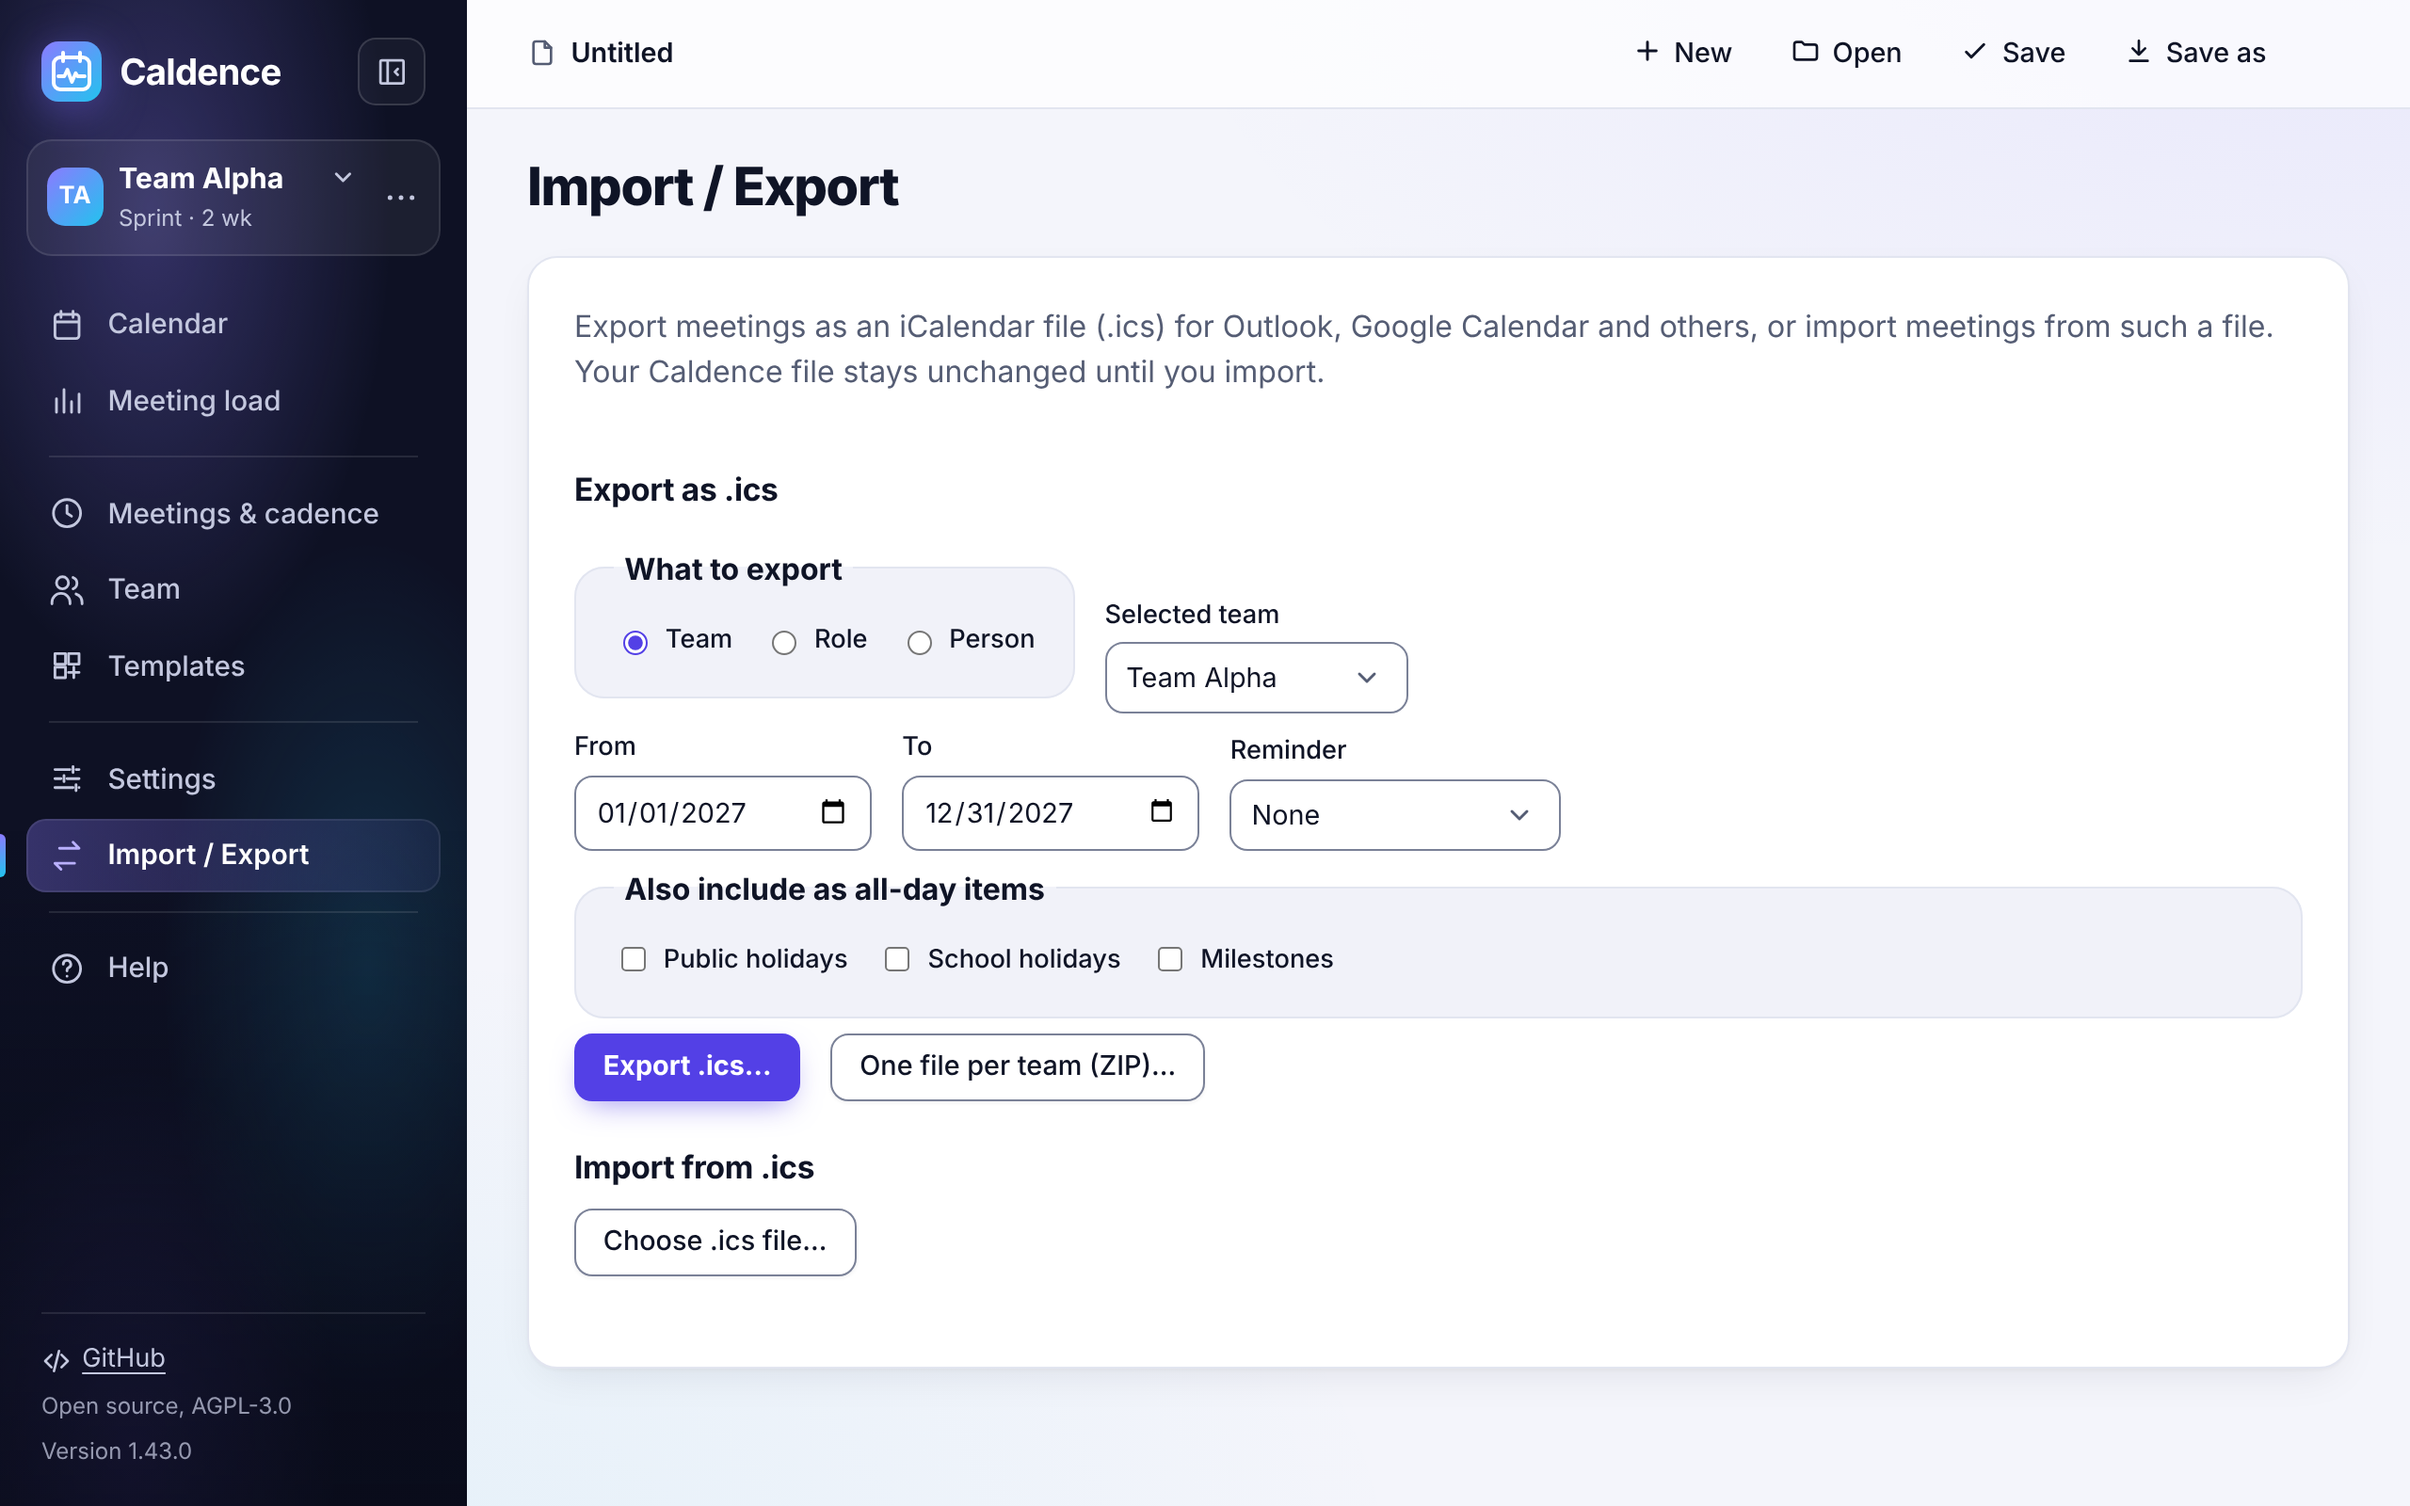
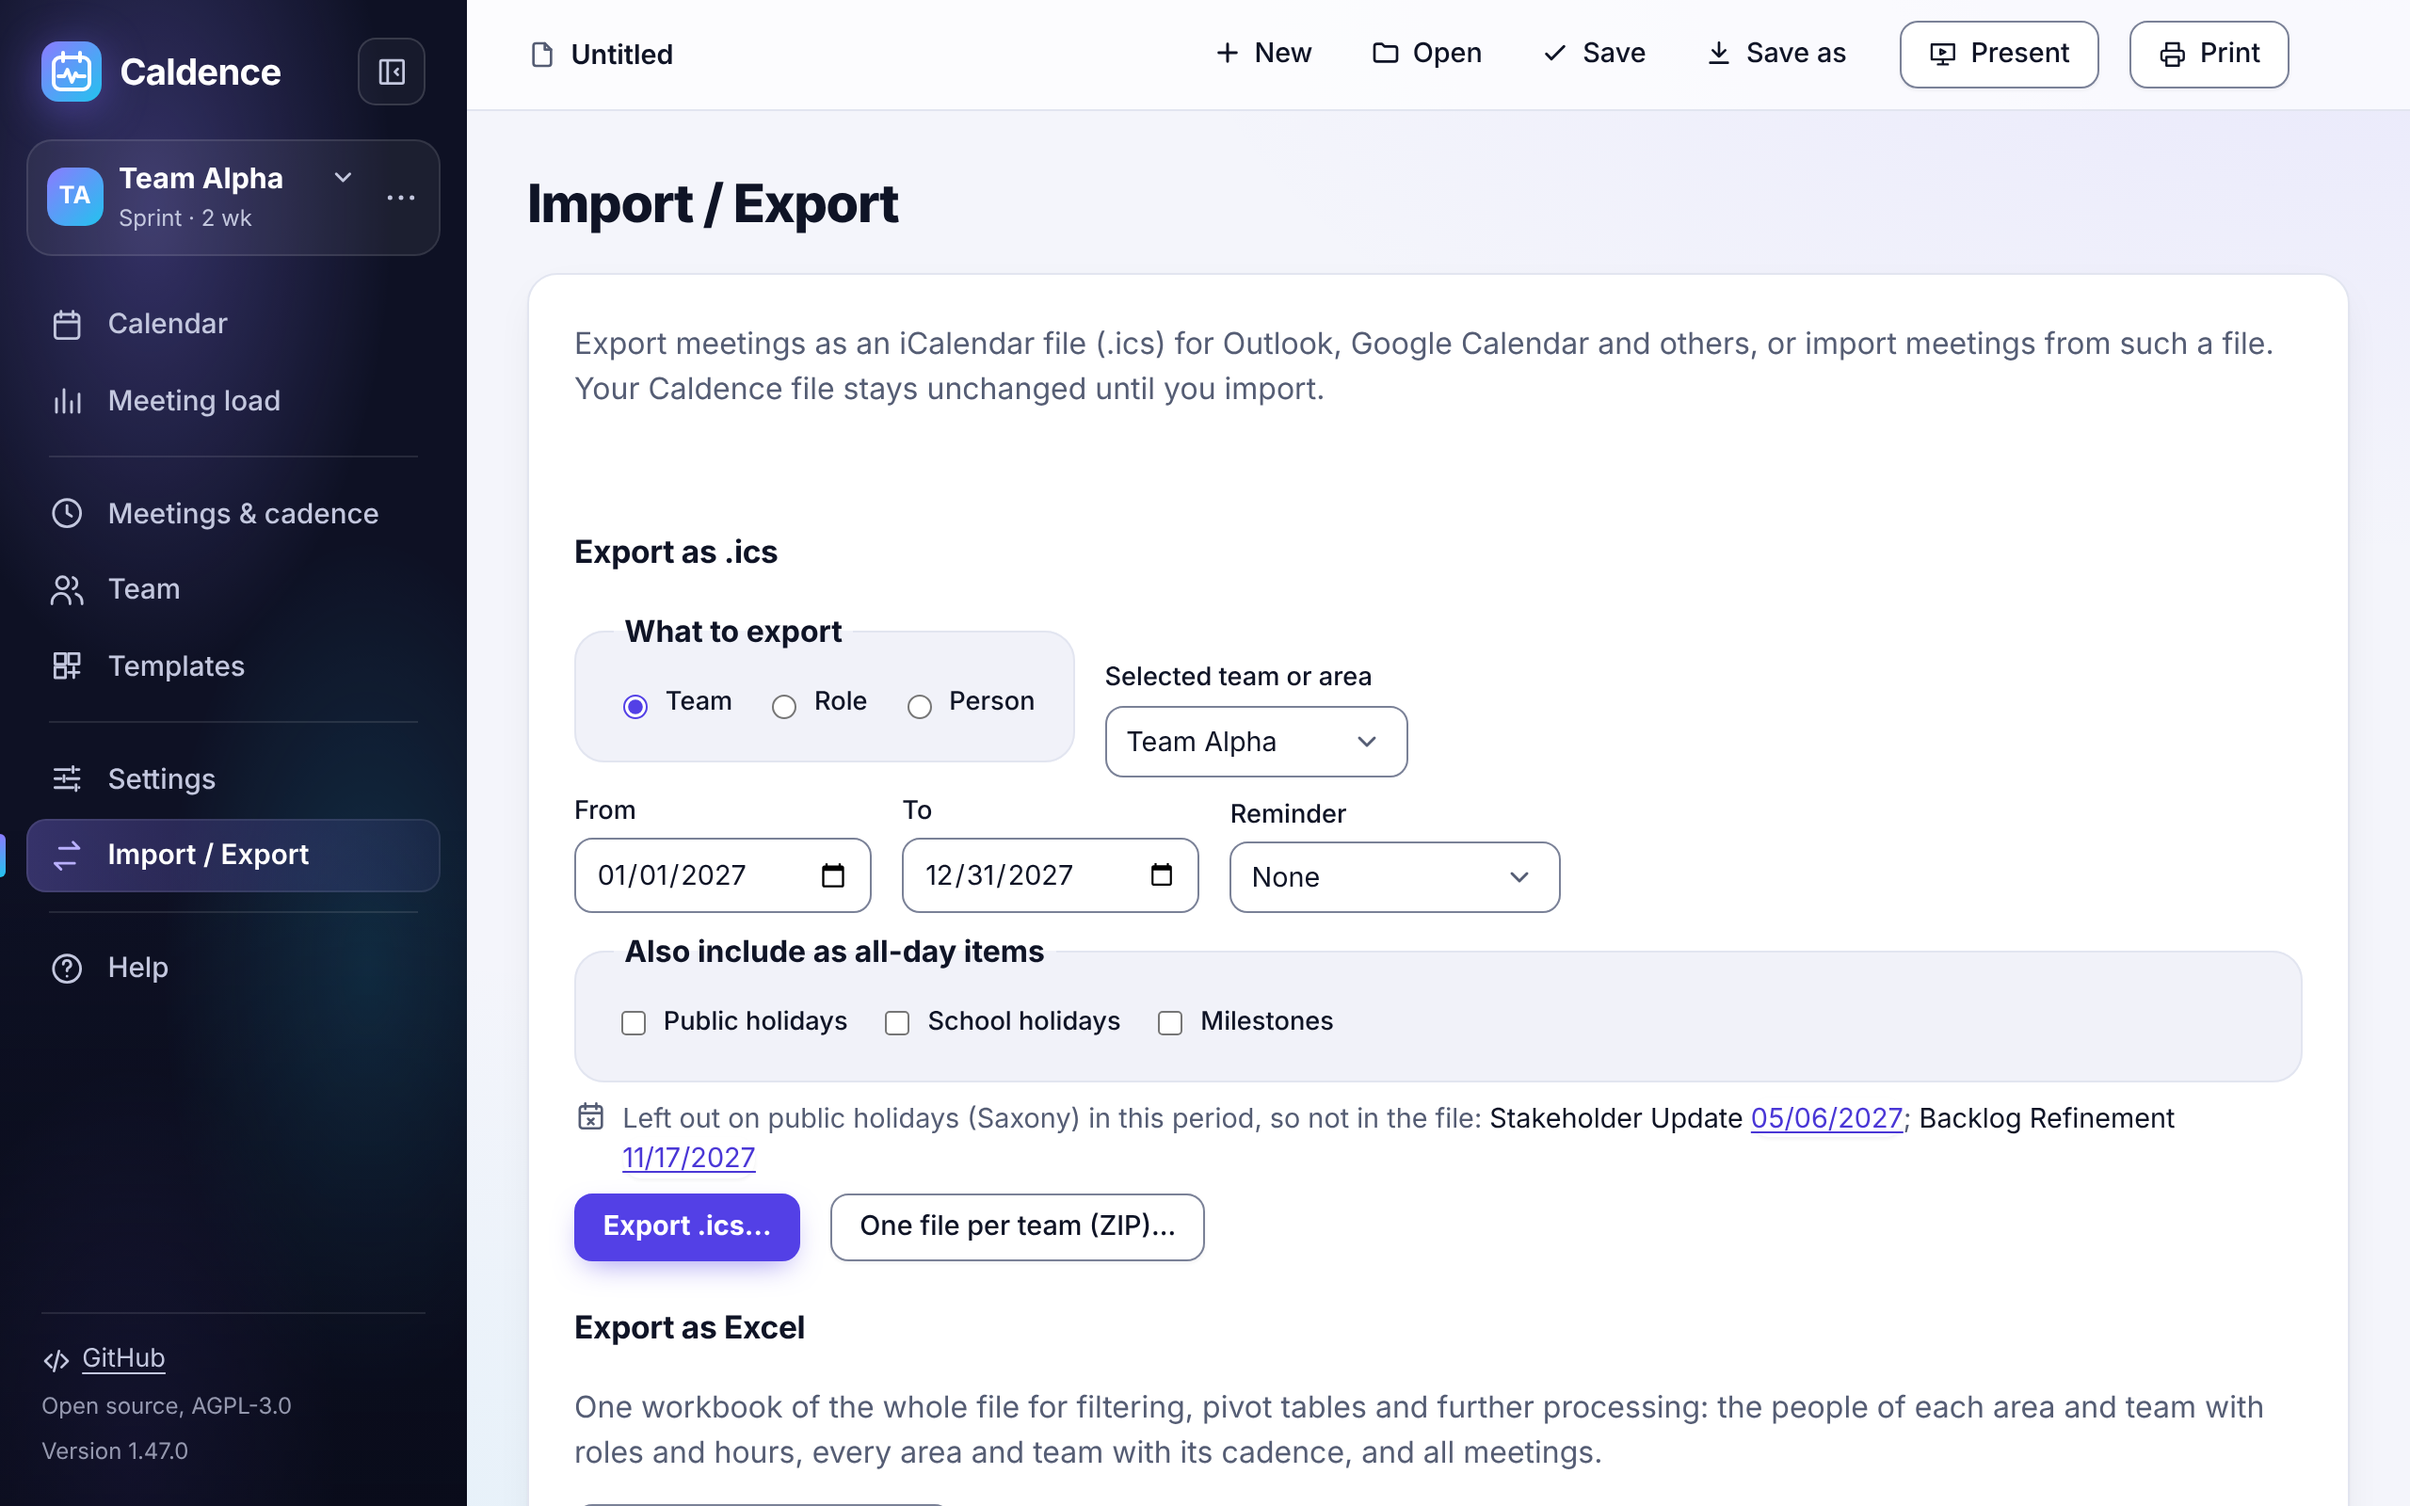
Merge same-date drops, list cadence meetings first, wizard shots (#341)
- Meetings dropped on the same dates share one entry; cadence-bound
  meetings (Review, Retrospective) come before daily or weekly series.
- The comma after a date stays with it when the line wraps.
- The region hint is true whether or not holidays are skipped.
- The date link stops its click instead of a global outside-click check.
- Help says "for example" a sprint, so it fits Kanban too.
- Wizard region PNGs, German shots re-taken, docs screenshots of
  Meetings and Import / Export regenerated; e2e for the wizard hint.

diff --git a/src/core/ics.ts b/src/core/ics.ts
@@ -249,16 +249,17 @@ function* scopedMeetings(
   }
 }
 
-/** A meeting holidays leave out of an export, with the dates it drops on (#341). */
+/** Meetings holidays leave out of an export, all on the same dates (#341). */
 export interface HolidayDrop {
-  name: string;
+  names: string[];
   dates: ISODate[];
 }
 
 /**
  * The meetings of a scope that fall on a public holiday in from..to and so are missing from its
- * .ics file, one entry per meeting name, ordered by their first such date. `index` must cover
- * from..to. Empty when the file skips no holidays.
+ * .ics file. Meetings dropped on the same dates share one entry; meetings bound to the cadence
+ * (sprint or PI days, such as Review and Retrospective) come first, then by their first date.
+ * `index` must cover from..to. Empty when the file skips no holidays.
  */
 export function holidayDrops(
   ws: Workspace,
@@ -267,18 +268,40 @@ export function holidayDrops(
   from: ISODate,
   to: ISODate,
 ): HolidayDrop[] {
-  const byName = new Map<string, Set<ISODate>>();
+  const byName = new Map<string, { dates: Set<ISODate>; cadence: boolean }>();
   for (const { event, occs } of scopedMeetings(ws, index, scope, from, to)) {
     for (const occ of occs) {
       if (!occ.skippedHoliday) continue;
-      const dates = byName.get(event.name) ?? new Set<ISODate>();
-      dates.add(occ.date);
-      byName.set(event.name, dates);
+      const entry = byName.get(event.name) ?? { dates: new Set<ISODate>(), cadence: false };
+      entry.dates.add(occ.date);
+      entry.cadence ||= event.rule.type === 'cadence-day';
+      byName.set(event.name, entry);
     }
   }
-  return [...byName]
-    .map(([name, dates]) => ({ name, dates: [...dates].sort() }))
-    .sort((a, b) => (a.dates[0]! < b.dates[0]! ? -1 : a.dates[0]! > b.dates[0]! ? 1 : 0));
+  const groups = new Map<string, { names: string[]; dates: ISODate[]; cadence: boolean }>();
+  for (const [name, { dates, cadence }] of byName) {
+    const sorted = [...dates].sort();
+    const key = sorted.join(' ');
+    const group = groups.get(key);
+    if (group) {
+      group.names.push(name);
+      group.cadence ||= cadence;
+    } else groups.set(key, { names: [name], dates: sorted, cadence });
+  }
+  const first = (g: { dates: ISODate[] }) => g.dates[0] ?? '';
+  return [...groups.values()]
+    .sort((a, b) =>
+      a.cadence !== b.cadence
+        ? a.cadence
+          ? -1
+          : 1
+        : first(a) < first(b)
+          ? -1
+          : first(a) > first(b)
+            ? 1
+            : 0,
+    )
+    .map(({ names, dates }) => ({ names, dates }));
 }
 
 /** True when the person attends at least one of the meetings a team's or area's export holds. */

diff --git a/tests/unit/ics-export.test.ts b/tests/unit/ics-export.test.ts
@@ -320,17 +320,32 @@ describe('exportIcs holidays (Review Focus 3)', () => {
     const range = { from: '2027-03-01', to: '2027-04-30' };
     const index = workspaceIndex({ ...w, settings: { ...w.settings, horizon: range } });
     const drops = holidayDrops(w, index, { teamId: 'team-alpha' }, range.from, range.to);
-    // Good Friday, Easter Monday; ordered by the first dropped date, a name only once.
+    // Good Friday, Easter Monday; ordered by the first dropped date, same dates merged.
     expect(drops).toEqual([
-      { name: 'Review', dates: ['2027-03-26'] },
-      { name: 'Planning', dates: ['2027-03-29'] },
-      { name: 'Kick-off', dates: ['2027-03-29'] },
+      { names: ['Review'], dates: ['2027-03-26'] },
+      { names: ['Planning', 'Kick-off'], dates: ['2027-03-29'] },
     ]);
     // The same dates the file leaves out.
     const lines = unfold(run(w, opts({ ...range, scope: { teamId: 'team-alpha' } })));
     expect(lines).toContain('EXDATE;TZID=Europe/Berlin:20270326T100000');
     expect(lines).toContain('EXDATE;TZID=Europe/Berlin:20270329T090000');
     expect(lines.join('\n')).not.toContain('Kick-off');
+  });
+
+  it('lists cadence-bound meetings first and merges those on the same dates', () => {
+    const w = example();
+    w.teams[0]!.cadence = { kind: 'sprint', lengthWeeks: 2, start: '2026-12-21' };
+    w.teams[0]!.events = [
+      ev('Daily', { type: 'weekdays', weekdays: [1, 2, 3, 4, 5] }, '09:00'),
+      ev('Sprint Review', { type: 'cadence-day', day: 11 }, '10:00'),
+      ev('Sprint Retrospective', { type: 'cadence-day', day: 11 }, '13:00'),
+    ];
+    const range = { from: '2026-12-21', to: '2027-04-30' };
+    const index = workspaceIndex({ ...w, settings: { ...w.settings, horizon: range } });
+    expect(holidayDrops(w, index, { teamId: 'team-alpha' }, range.from, range.to)).toEqual([
+      { names: ['Sprint Review', 'Sprint Retrospective'], dates: ['2027-01-01', '2027-03-26'] },
+      { names: ['Daily'], dates: ['2026-12-25', '2027-01-01', '2027-03-26', '2027-03-29'] },
+    ]);
   });
 
   it('lists nothing when skipHolidays is off or no meeting falls on a holiday', () => {

diff --git a/tests/e2e/holiday-drops.spec.ts b/tests/e2e/holiday-drops.spec.ts
@@ -36,12 +36,28 @@ function sprintFile() {
       rule: { type: 'cadence-day', day: 11 },
       time: '10:00',
     },
+    {
+      ...base,
+      id: 'e3',
+      name: 'Daily',
+      rule: { type: 'weekdays', weekdays: [1, 2, 3, 4, 5] },
+      time: '09:00',
+    },
+    {
+      ...base,
+      id: 'e4',
+      name: 'Sprint Retrospective',
+      rule: { type: 'cadence-day', day: 11 },
+      time: '13:00',
+    },
   ];
   return ws;
 }
 
 const panel = (page: Page, name: string) => page.getByRole('tabpanel', { name });
-const LINE = 'Sprint Review 01/01/2027, 03/26/2027; Sprint Planning 03/29/2027';
+// Cadence-bound meetings first; meetings on the same dates share one entry.
+const LINE =
+  'Sprint Review, Sprint Retrospective 01/01/2027, 03/26/2027; Sprint Planning 03/29/2027; Daily 12/25/2026, 01/01/2027, 03/26/2027, 03/29/2027';
 
 test('a sprint ending on a holiday shows the dropped meetings in the export', async ({ page }) => {
   await page.goto('/');
@@ -55,13 +71,15 @@ test('a sprint ending on a holiday shows the dropped meetings in the export', as
 
   // A shorter period lists only its own dates.
   await exchange.getByLabel('To', { exact: true }).fill('2027-02-28');
-  await expect(drops).toContainText('Sprint Review 01/01/2027');
+  await expect(drops).toContainText('Sprint Review, Sprint Retrospective 01/01/2027;');
   await expect(drops).not.toContainText('03/26/2027');
   await exchange.getByLabel('To', { exact: true }).fill('2027-04-30');
 
   // Each date opens that day in the Calendar.
   await drops
-    .getByRole('button', { name: 'Sprint Review, 03/26/2027, show in the calendar' })
+    .getByRole('button', {
+      name: 'Sprint Review, Sprint Retrospective, 03/26/2027, show in the calendar',
+    })
     .click();
   await expect(page.getByRole('tab', { name: 'Calendar' })).toHaveAttribute(
     'aria-selected',

diff --git a/src/ui/components/HolidayDrops.svelte b/src/ui/components/HolidayDrops.svelte
@@ -19,18 +19,15 @@
   const linked = (d: string) => !!onOpenDay && d >= horizon.from && d <= horizon.to;
 </script>
 
+<!-- No whitespace around a date: the comma after it stays with it (see .day). -->
 {#snippet day(name: string, date: string)}
   {@const short = formatDisplayDate($locale, date, 'short')}
-  {#if linked(date)}
-    <button
-      type="button"
-      class="link"
-      aria-label={$t('holidayDrops.show', { name, date: short })}
-      onclick={() => onOpenDay?.(date)}>{short}</button
-    >
-  {:else}
-    {short}
-  {/if}
+  <!-- prettier-ignore -->
+  {#if linked(date)}<button type="button" class="link" aria-label={$t('holidayDrops.show', { name, date: short })} onclick={(e) => {
+    // Not a click outside the day details this opens in the Calendar.
+    e.stopPropagation();
+    onOpenDay?.(date);
+  }}>{short}</button>{:else}{short}{/if}
 {/snippet}
 
 {#if drops.length > 0}
@@ -42,14 +39,8 @@
     >
     <span>
       {lead}
-      {#each drops as drop, i (drop.name)}
-        {i > 0 ? $t('holidayDrops.sep') : ''}<span class="drop"
-          >{drop.name}
-          {#each drop.dates as date, j (date)}
-            {j > 0 ? ', ' : ''}{@render day(drop.name, date)}
-          {/each}
-        </span>
-      {/each}
+      <!-- prettier-ignore -->
+      {#each drops as drop, i (drop.dates.join())}{i > 0 ? $t('holidayDrops.sep') : ''}<span class="drop">{drop.names.join(', ')} {#each drop.dates as date, j (date)}{j > 0 ? ' ' : ''}<span class="day">{@render day(drop.names.join(', '), date)}{j < drop.dates.length - 1 ? ',' : ''}</span>{/each}</span>{/each}
     </span>
   </p>
 {/if}
@@ -76,6 +67,10 @@
   }
   .drop {
     color: var(--text);
+  }
+  /* A button may wrap on either side; its comma stays with it. */
+  .day {
+    white-space: nowrap;
   }
   :global(#app) .holiday-drops button.link {
     min-height: 0;

diff --git a/tests/e2e/start.spec.ts b/tests/e2e/start.spec.ts
@@ -159,6 +159,8 @@ test('the frame step sets time zone and horizon for the workspace', async ({ pag
   await expect(
     dialog.getByRole('heading', { name: 'Time zone, holidays and horizon' }),
   ).toBeFocused();
+  // The region is preset, not chosen: the wizard asks to check it (#341).
+  await expect(dialog.getByLabel('Region (holidays)')).toHaveAccessibleDescription(/Please check/);
   await dialog.getByLabel('Time zone').selectOption('Europe/Vienna');
   await dialog.getByLabel('Horizon to').fill('2027-03-01');
   await dialog.getByRole('button', { name: 'Create team' }).click();

diff --git a/src/ui/views/CalendarView.svelte b/src/ui/views/CalendarView.svelte
@@ -499,8 +499,6 @@
     if (selected === null || !board || !(event.target instanceof Node)) return;
     // Hidden behind another view, or the click was on the calendar itself.
     if (board.offsetParent === null || board.contains(event.target)) return;
-    // A link in another view that opened this day (#341) is gone by now: not a click outside.
-    if (!event.target.isConnected) return;
     selected = null;
   }
 
